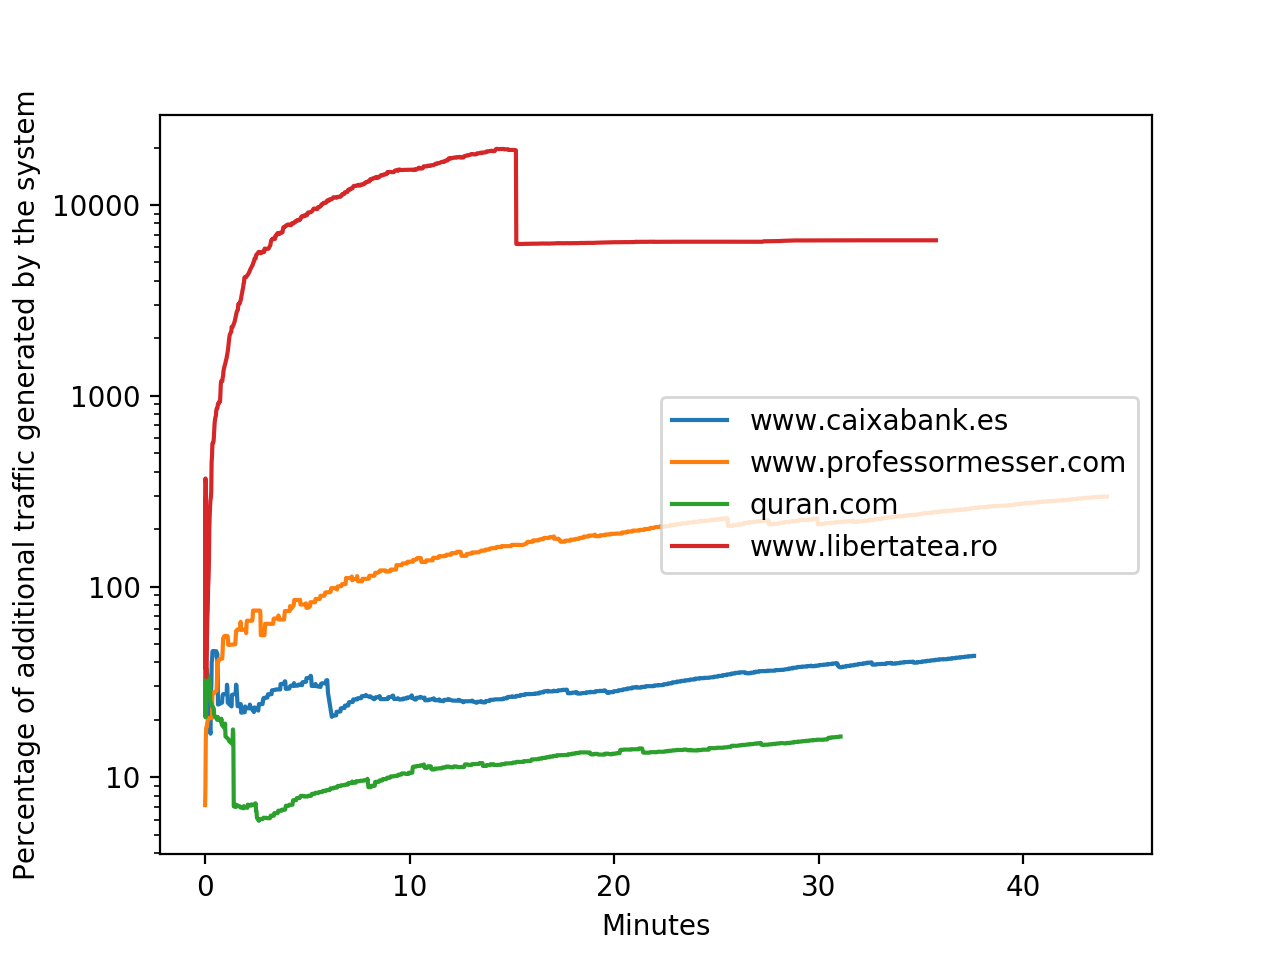
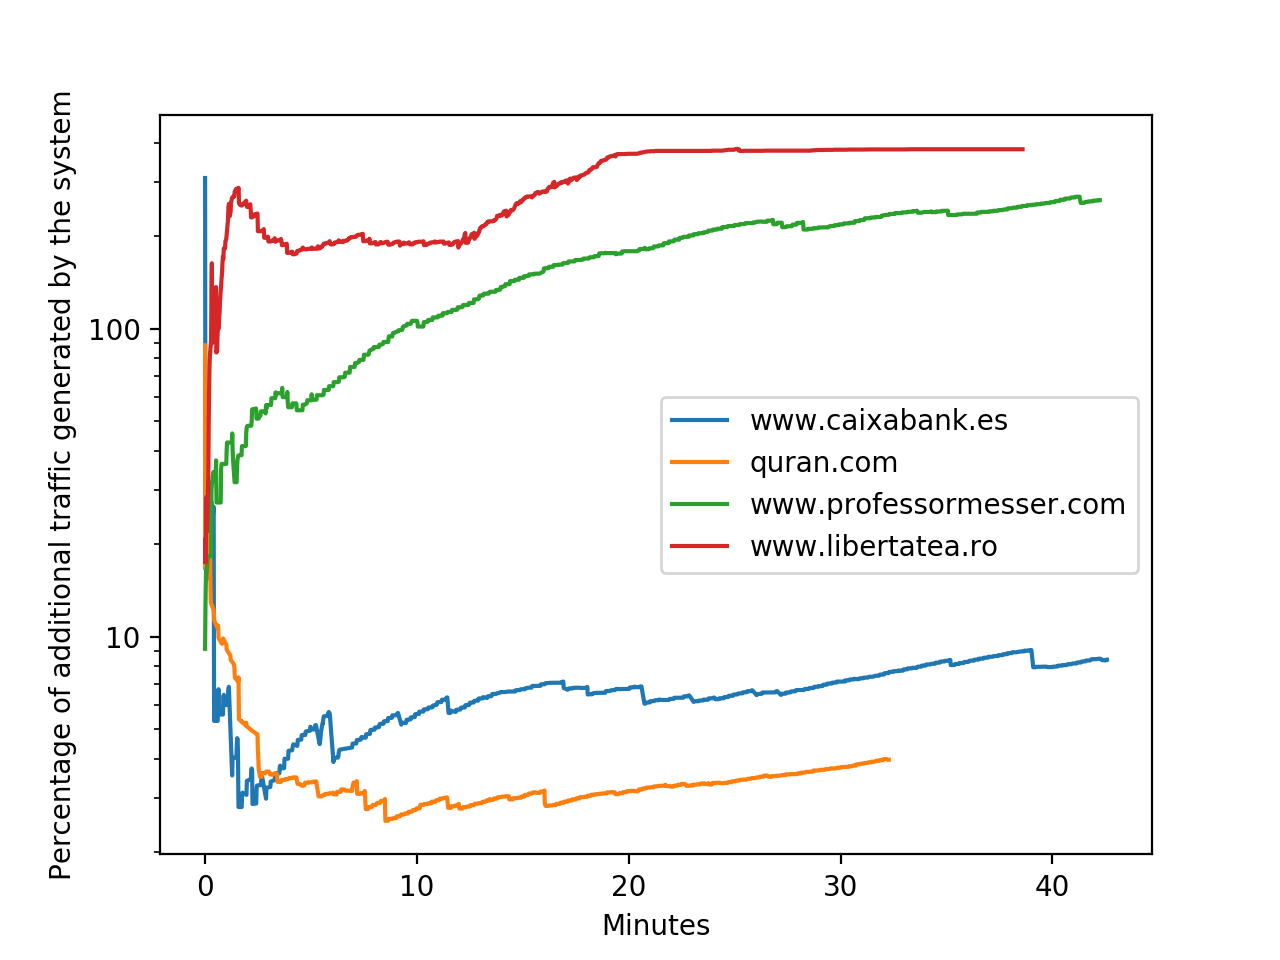
regenerated graphs

diff --git a/dissertation/scripts/generate_long_byapss.py b/dissertation/scripts/generate_long_byapss.py
@@ -7,9 +7,8 @@ OUTPUT_DIR = '../imgs'
 OUTPUT_FILE = '/netword_usage_long_bypass.png'
 
 files = {
-    'caixabank_fixed_long_bypass': 'www.caixabank.es',
-    'professormesser_fixed_long_bypass': 'www.professormesser.com',
-    'quran_fixed_long_bypass': 'quran.com',
+    'caixabank_long_bypass': 'www.caixabank.es',
+    'quran_long_bypass': 'quran.com',
 }
 
 fig, ax = plt.subplots()
@@ -40,9 +39,9 @@ plt.ylabel('Percentage of additional traffic generated by the system')
 
 ax.yaxis.set_major_formatter(ScalarFormatter())
 
-plt.legend(loc='center right')
+plt.legend(loc='upper right')
 
-plt.ylim(0,350)
+plt.ylim(0,20)
 
 plt.savefig(OUTPUT_DIR + OUTPUT_FILE, dpi=200)
 

diff --git a/dissertation/scripts/generate_long_graph.py b/dissertation/scripts/generate_long_graph.py
@@ -7,9 +7,8 @@ OUTPUT_DIR = '../imgs'
 OUTPUT_FILE = '/netword_usage_long_plot.png'
 
 files = {
-    'caixabank_fixed_long': 'www.caixabank.es',
-    'professormesser_fixed_long': 'www.professormesser.com',
-    'quran_fixed_long': 'quran.com',
+    'caixabank_long': 'www.caixabank.es',
+    'quran_long': 'quran.com',
 }
 
 fig, ax = plt.subplots()
@@ -40,9 +39,9 @@ plt.ylabel('Percentage of additional traffic generated by the system')
 
 ax.yaxis.set_major_formatter(ScalarFormatter())
 
-plt.legend(loc='center right')
+plt.legend(loc='upper right')
 
-plt.ylim(0,350)
+plt.ylim(0,20)
 
 plt.savefig(OUTPUT_DIR + OUTPUT_FILE, dpi=200)
 

diff --git a/dissertation/scripts/generate_bypass.py b/dissertation/scripts/generate_bypass.py
@@ -7,10 +7,10 @@ OUTPUT_DIR = '../imgs'
 OUTPUT_FILE = '/netword_usage_bypass.png'
 
 files = {
-    'caixabank_fixed_long_bypass': 'www.caixabank.es',
-    'professormesser_fixed_long_bypass': 'www.professormesser.com',
-    'quran_fixed_long_bypass': 'quran.com',
-    'libertatea_fixed_long_bypass': 'www.libertatea.ro',
+    'caixabank_long_bypass': 'www.caixabank.es',
+    'quran_long_bypass': 'quran.com',
+    'professormesser_long_bypass': 'www.professormesser.com',
+    'libertatea_long_bypass': 'www.libertatea.ro',
 }
 
 fig, ax = plt.subplots()

diff --git a/dissertation/scripts/generate_graphs.py b/dissertation/scripts/generate_graphs.py
@@ -7,10 +7,10 @@ OUTPUT_DIR = '../imgs'
 OUTPUT_FILE = '/netword_usage_plot.png'
 
 files = {
-    'caixabank_fixed_long': 'www.caixabank.es',
-    'professormesser_fixed_long': 'www.professormesser.com',
-    'quran_fixed_long': 'quran.com',
-    'libertatea_fixed_long': 'www.libertatea.ro',
+    'caixabank_long': 'www.caixabank.es',
+    'quran_long': 'quran.com',
+    'professormesser_long': 'www.professormesser.com',
+    'libertatea_long': 'www.libertatea.ro',
 }
 
 fig, ax = plt.subplots()
